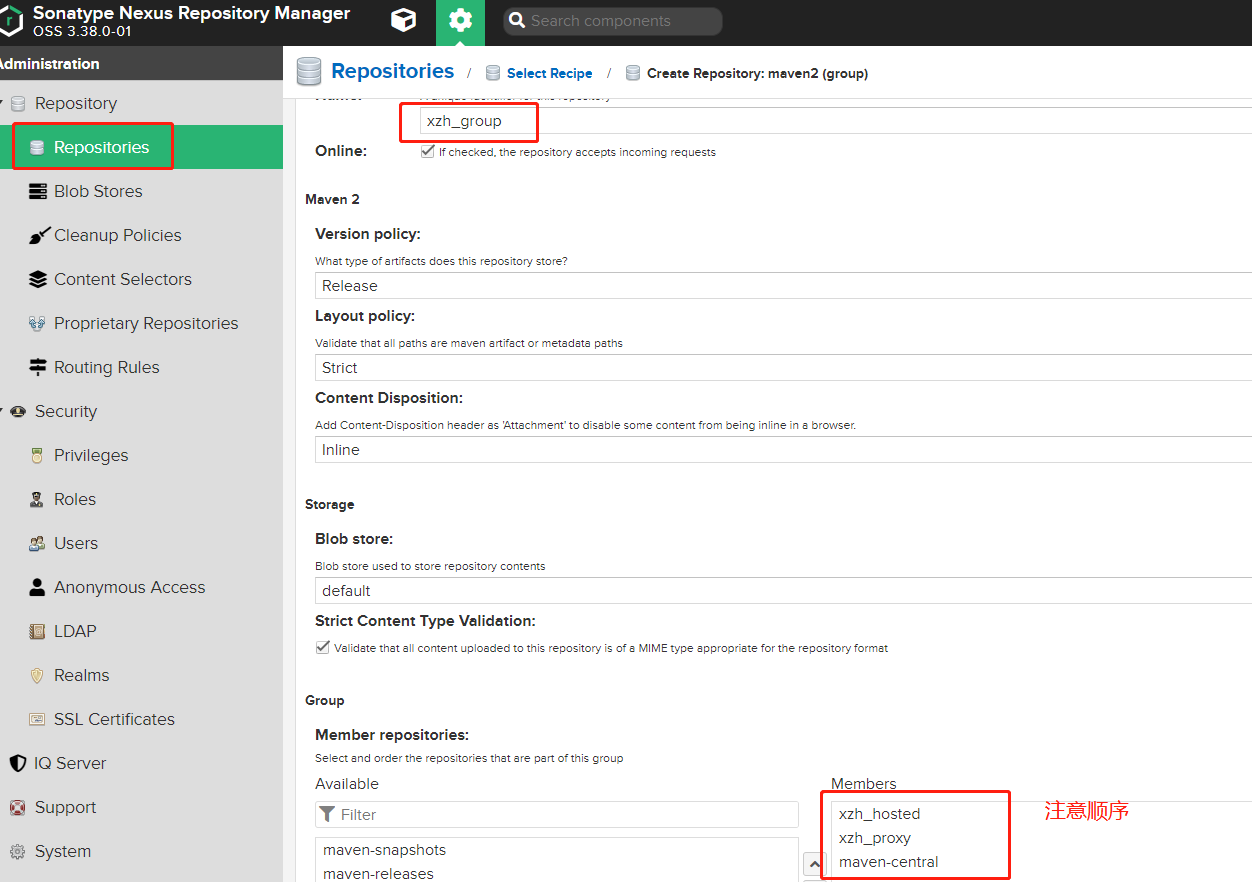
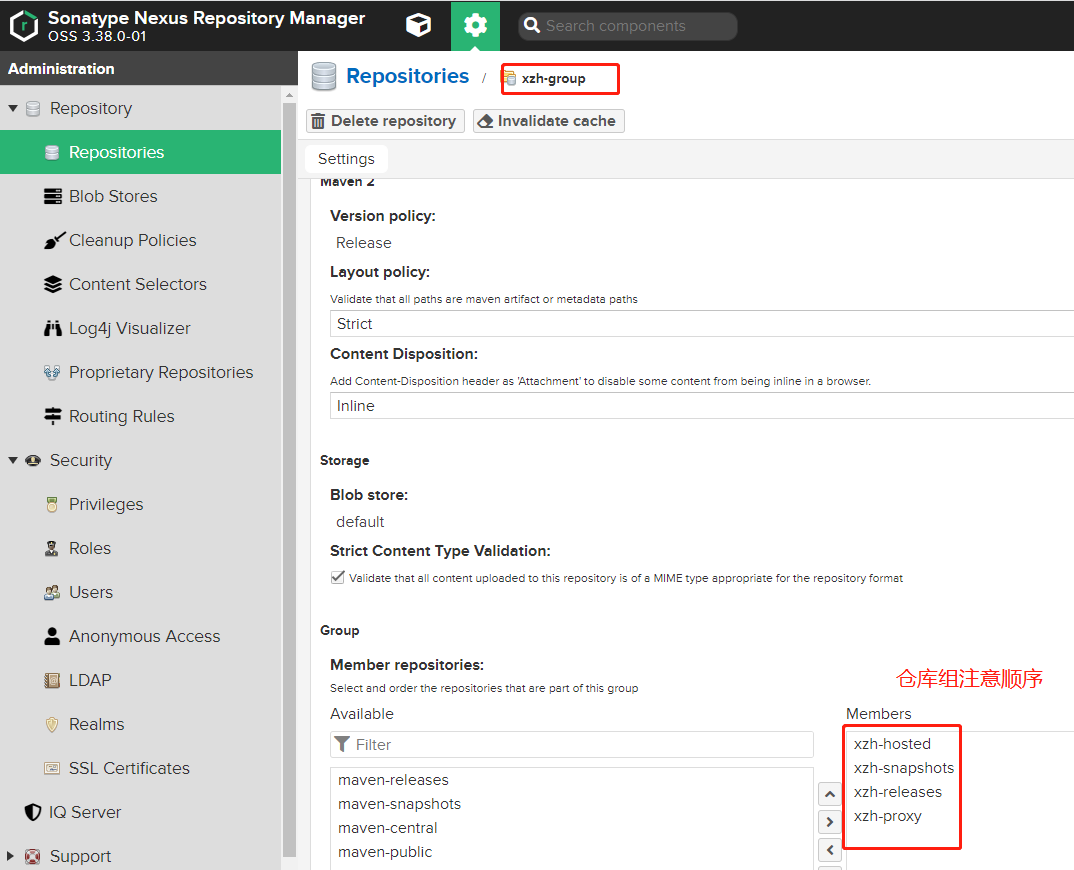
update

Changed region(s): [[0.0, 0.0, 1.0, 1.0], [0.6453, 0.7448, 0.9832, 1.0], [0.8911, 0.8379, 0.9218, 0.869]]

diff --git a/docs/devops/deploy/nexus3.md b/docs/devops/deploy/nexus3.md
@@ -26,6 +26,21 @@ docker run -d -p 8081:8081 --name nexus -v nexus-data:/nexus-data sonatype/nexus
 
 ## 2. 配置
 
+
+默认仓库
+- maven-central：maven中央库，默认https://repo1.maven.org/maven2
+- maven-releases：私库发行版，首次安装请将Deployment policy设置为Allow redeploy
+- maven-snapshots：私库快照版本
+- maven-public：仓库组
+
+Nexus仓库类型
+- hosted：本地仓库，通常我们会部署自己的构件到这一类型的仓库。比如公司的第二方库。
+- proxy：代理仓库，它们被用来代理远程的公共仓库，如maven中央仓库。
+- group：仓库组，用来合并多个hosted/proxy仓库，当你的项目希望在多个repository使用资源时就不需要多次引用了，只需要引用一个group即可。
+```
+
+![](../../_images/devops/deploy/nexus3/repository_types.png)
+
 ### 2.1 创建Blob Stores
 
 ![](../../_images/devops/deploy/nexus3/create_blob.png)
@@ -33,8 +48,6 @@ docker run -d -p 8081:8081 --name nexus -v nexus-data:/nexus-data sonatype/nexus
 ![](../../_images/devops/deploy/nexus3/blob_list.png)
 
 ### 2.2 创建托管仓库
-
-![](../../_images/devops/deploy/nexus3/repository_types.png)
 
 ![](../../_images/devops/deploy/nexus3/repository_list.png)
 
@@ -58,7 +71,7 @@ docker run -d -p 8081:8081 --name nexus -v nexus-data:/nexus-data sonatype/nexus
 
 ![](../../_images/devops/deploy/nexus3/group_repository.png)
 
-### 2.5 Maven配置
+### 2.5 settings配置
 
 修改Maven的settings.xml文件，加入认证机制
 
@@ -66,22 +79,22 @@ docker run -d -p 8081:8081 --name nexus -v nexus-data:/nexus-data sonatype/nexus
 <!--nexus服务器,id为组仓库name-->
   <servers>  
     <server>  
-        <id>xzh_group</id>  
+        <id>xzh-group</id>  
         <username>admin</username>  
         <password>admin</password>  
     </server>
     <server>  
-        <id>xzh_hosted</id>  
+        <id>xzh-hosted</id>  
         <username>admin</username>  
         <password>admin</password>  
     </server>
     <server>  
-        <id>xzh_snapshots</id>  
+        <id>xzh-snapshots</id>  
         <username>admin</username>  
         <password>admin</password>  
     </server>
     <server>  
-        <id>xzh_releases</id>  
+        <id>xzh-releases</id>  
         <username>admin</username>  
         <password>admin</password>  
     </server>   
@@ -91,7 +104,7 @@ docker run -d -p 8081:8081 --name nexus -v nexus-data:/nexus-data sonatype/nexus
     <mirror>  
         <id>xzh_group</id>  
         <name>xzh_group</name>  
-        <url>http://172.17.17.200:8081/repository/xzh_group/</url>  
+        <url>http://172.17.17.200:8081/repository/xzh-group/</url>  
         <mirrorOf>central</mirrorOf>  
     </mirror>     
   </mirrors>
@@ -109,7 +122,7 @@ mvn install:install-file -Dfile=D:\paoding-analysis.jar -DgroupId=net.paoding -D
 mvn install:install-file -Dfile=D:\ojdbc6.jar -DgroupId=com.oracle -DartifactId=ojdbc6 -Dversion=10.2.0.5.0 -Dpackaging=jar -DgeneratePom=true -DcreateChecksum=true  
 mvn install:install-file -Dfile=D:/iTextAsian.jar -DgroupId=com.lowagie -DartifactId=itextasian -Dversion=1.0 -Dpackaging=jar 
 mvn install:install-file -Dfile=D:/tools.jar -DgroupId=com.sun2 -DartifactId=tools -Dversion=1.6.0 -Dpackaging=jar
-mvn deploy:deploy-file -DgroupId=net.xzh -DartifactId=spring-boot-email -Dversion=2.3.0.RELEASE -Dpackaging=jar -Dfile=spring-boot-email-2.3.0.RELEASE.jar -Durl=http://172.17.17.200:8081/repository/xzh_hosted/ -DrepositoryId=xzh_hosted
+mvn deploy:deploy-file -DgroupId=net.xzh -DartifactId=spring-boot-email -Dversion=2.3.0.RELEASE -Dpackaging=jar -Dfile=spring-boot-email-2.3.0.RELEASE.jar -Durl=http://172.17.17.200:8081/repository/xzh-hosted/ -DrepositoryId=xzh-hosted
 ```
 
 指令说明
@@ -123,47 +136,20 @@ mvn deploy:deploy-file -DgroupId=net.xzh -DartifactId=spring-boot-email -Dversio
 - -DrepositoryId：仓库名称
 
 
-### 2.7 Idea上传本地项目至私有库
+### 2.7 Idea上传至私有库
 
 pom文件添加本地仓库的配置
 
 ```xml
-<repositories>
-    <repository>
-        <id>nexus</id>
-        <name>Nexus Repository</name>
-        <url>http://192.168.3.200:8181/repository/maven-public/</url>
-        <snapshots>
-            <enabled>true</enabled>
-        </snapshots>
-        <releases>
-            <enabled>true</enabled>
-        </releases>
-    </repository>
-</repositories>
-<pluginRepositories>
-    <pluginRepository>
-        <id>nexus</id>
-        <name>Nexus Plugin Repository</name>
-        <url>http://192.168.3.200:8181/repository/maven-public/</url>
-        <snapshots>
-            <enabled>true</enabled>
-        </snapshots>
-        <releases>
-            <enabled>true</enabled>
-        </releases>
-    </pluginRepository>
-</pluginRepositories>
+<!-- 配置资源上传的仓库地址，与settings.xml中  -->
 <distributionManagement>
     <repository>
-        <id>nexus-releases</id>
-        <name>Nexus Release Repository</name>
-        <url>http://192.168.3.200:8181/repository/maven-releases/</url>
+        <id>xzh-release</id>
+        <url>http://172.17.17.200:8081/repository/xzh-release/</url>
     </repository>
     <snapshotRepository>
-        <id>nexus-snapshots</id>
-        <name>Nexus Snapshot Repository</name>
-        <url>http://192.168.3.200:8181/repository/maven-snapshots/</url>
+        <id>xzh-snapshots</id>
+        <url>http://172.17.17.200:8081/repository/xzh-snapshots/</url>
     </snapshotRepository>
 </distributionManagement>
 ```
